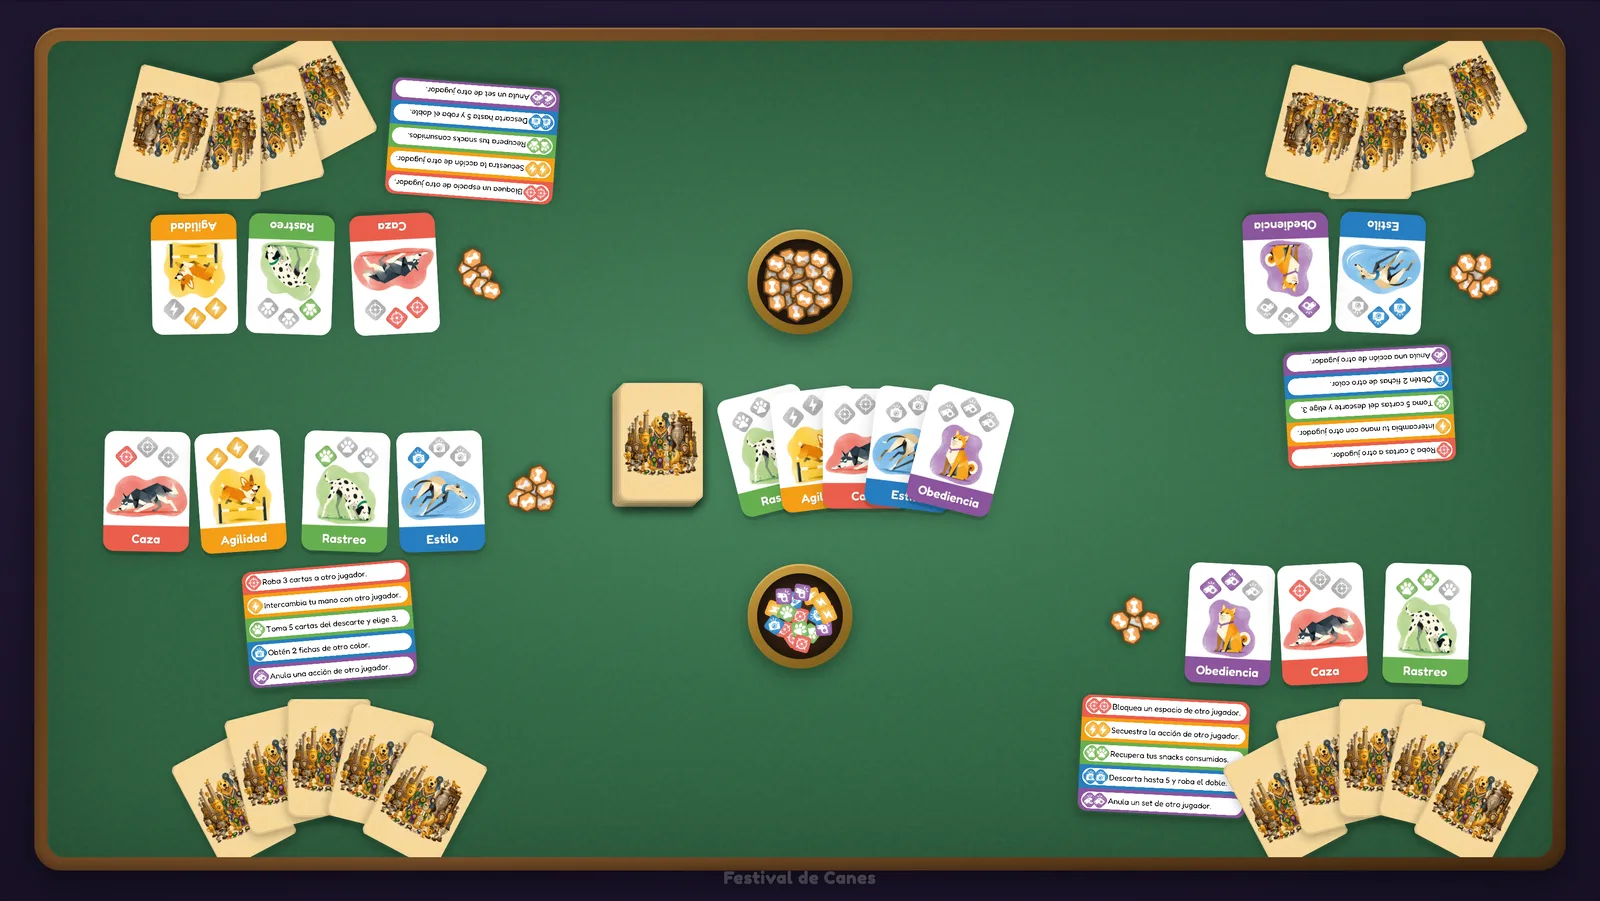
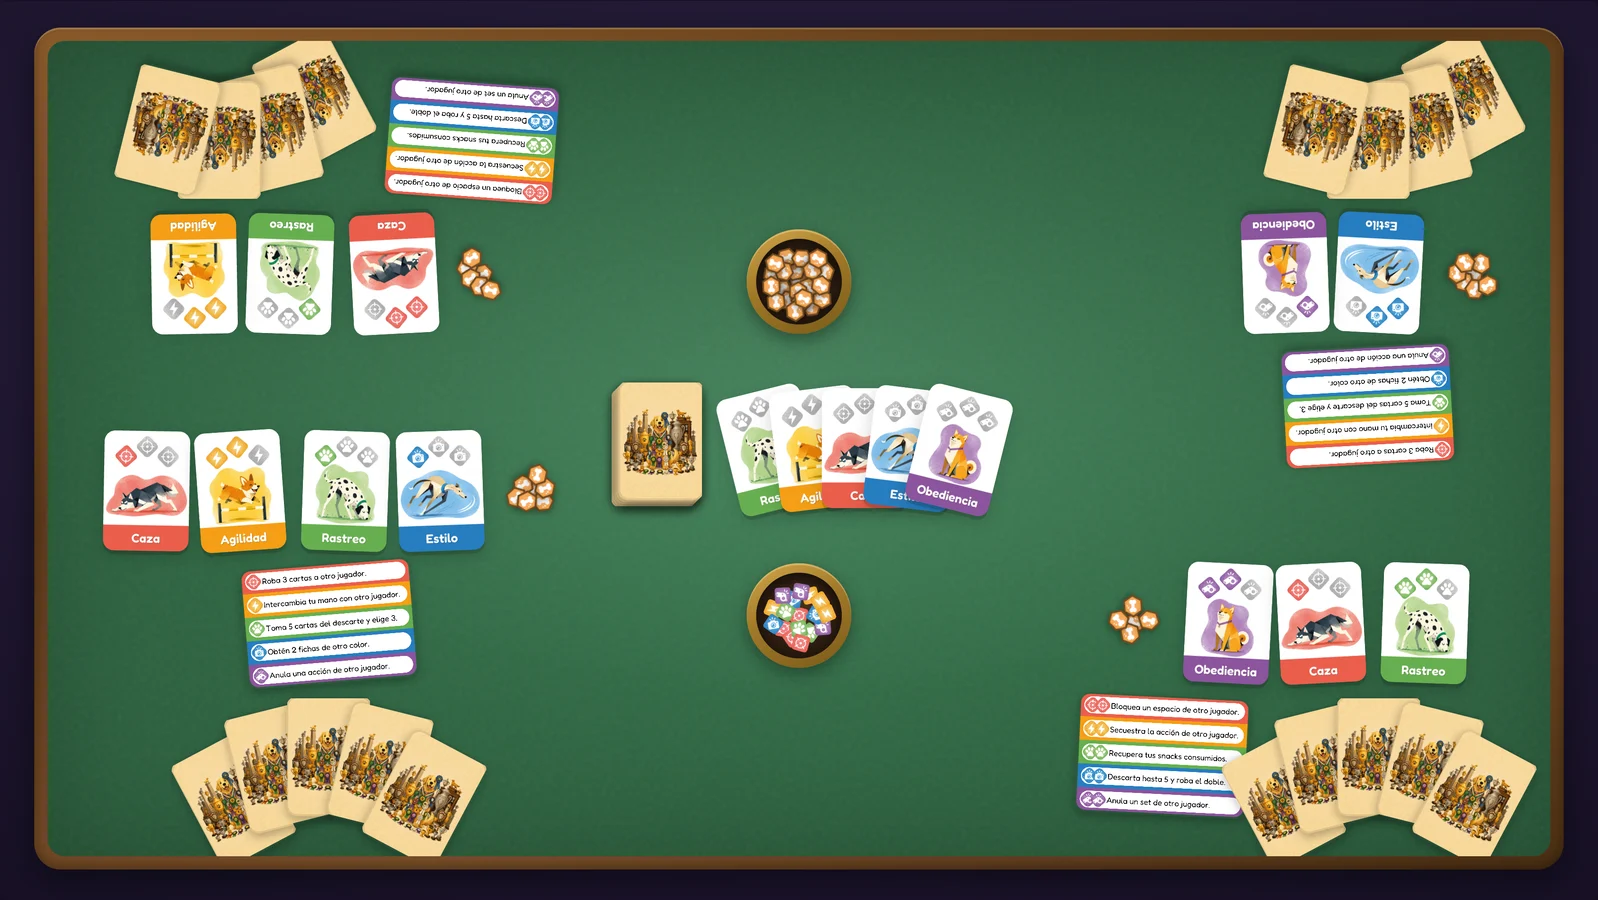
feat(ficha): montaje Canes, componentes sin leyendas y limpieza paletas
Reexporta canes-mesa-montaje sin marca inferior; quita captions visibles
en la sección componentes. Elimina debug de tema, fija fichaMode en juegos
restantes y ajusta estilos de héroe y shell global.

diff --git a/src/styles/ficha.css b/src/styles/ficha.css
@@ -122,11 +122,6 @@ body.ficha-page[data-on-primary="tinta"] {
 
 .ficha-hero-copy {
   padding: clamp(2rem, 4.5vw, 3.5rem) 0 1.5rem;
-  background: linear-gradient(
-    105deg,
-    color-mix(in srgb, var(--ficha-bg) 28%, var(--ficha-page-bg)) 0%,
-    var(--ficha-page-bg) 72%
-  );
 }
 
 .ficha-hero-copy-inner {
@@ -289,9 +284,14 @@ body.ficha-page[data-on-primary="tinta"] {
 
 @media (max-width: 979px) {
   .ficha-concept-bleed {
+    position: relative;
     width: min(var(--ficha-max), calc(100% - 2 * var(--ficha-gutter)));
     margin-inline: auto;
   }
+}
+
+.ficha-hero .ficha-concept-bleed {
+  position: relative;
 }
 
 .ficha-concept-media {
@@ -308,12 +308,20 @@ body.ficha-page[data-on-primary="tinta"] {
   display: block;
 }
 
-.ficha-concept figcaption {
-  padding: .55rem .75rem .65rem;
-  color: var(--ficha-muted);
-  font-size: .78rem;
+/* Leyenda sobre el arte (héroe): sin barra debajo de la imagen. */
+.ficha-hero .ficha-concept-bleed figcaption {
+  position: absolute;
+  inset: auto 0 0 0;
+  z-index: 1;
+  margin: 0;
+  padding: 2.25rem var(--ficha-gutter) .7rem 1rem;
+  border: none;
+  color: rgba(255, 255, 255, .92);
+  font-size: clamp(.88rem, 1.35vw, .98rem);
   font-style: italic;
-  border-top: 1px solid var(--ficha-line);
+  line-height: 1.35;
+  background: linear-gradient(180deg, transparent 0%, rgba(26, 40, 71, .55) 100%);
+  pointer-events: none;
 }
 
 /* —— Historia / inspiración (franja, distinta de las secciones) —— */
@@ -572,9 +580,6 @@ body.ficha-page[data-on-primary="tinta"] {
 }
 
 .ficha-comp-stage-wrap {
-  display: flex;
-  flex-direction: column;
-  gap: .55rem;
   min-width: 0;
 }
 
@@ -599,15 +604,6 @@ body.ficha-page[data-on-primary="tinta"] {
   object-fit: cover;
   object-position: center center;
   display: block;
-}
-
-.ficha-comp-stage-cap {
-  margin: 0;
-  min-height: 1.25em;
-  color: var(--ficha-award-title, var(--ficha-dim));
-  font-size: .82rem;
-  font-style: italic;
-  line-height: 1.35;
 }
 
 .ficha-comp-side {
@@ -914,11 +910,6 @@ body.ficha-page .site-header {
   border-bottom: 1px solid var(--ficha-line, color-mix(in srgb, var(--ficha-c-tinta) 12%, transparent));
 }
 
-body.ficha-page .site-header .shell,
-body.ficha-page .site-footer .shell {
-  width: min(1320px, calc(100% - 2 * clamp(1.25rem, 2.5vw, 2.75rem)));
-}
-
 body.ficha-page .brand b {
   color: var(--ficha-header-text, var(--ficha-title, var(--ficha-c-tinta)));
 }
@@ -1077,18 +1068,6 @@ body.ficha-page .site-footer a:hover {
     object-fit: contain;
     object-position: center center;
     display: block;
-  }
-
-  .ficha-concept-bleed figcaption {
-    position: absolute;
-    inset: auto 0 0 0;
-    z-index: 1;
-    margin: 0;
-    padding: 2.25rem var(--ficha-gutter) .7rem 1rem;
-    border: none;
-    color: var(--ficha-on-band-title);
-    background: var(--ficha-band-bg);
-    pointer-events: none;
   }
 }
 

diff --git a/src/styles/global.css b/src/styles/global.css
@@ -17,6 +17,9 @@
   --white: #fffdf6;
   --shadow: 0 14px 35px rgba(44,45,40,.14);
   --shell: 1200px;
+  /* Header/footer: misma caja que fichas (1320 + gutter fluido). */
+  --site-chrome-max: 1320px;
+  --site-chrome-gutter: clamp(1.25rem, 2.5vw, 2.75rem);
 }
 
 * { box-sizing: border-box; }
@@ -46,6 +49,11 @@ a { color: inherit; }
 img { display: block; max-width: 100%; }
 h1, h2, h3, p, figure { margin-top: 0; }
 .shell { width: min(var(--shell), calc(100% - 3rem)); margin-inline: auto; }
+
+.site-header .shell,
+.site-footer .shell {
+  width: min(var(--site-chrome-max), calc(100% - 2 * var(--site-chrome-gutter)));
+}
 
 .site-header {
   position: sticky;

diff --git a/src/lib/ficha-overlays.ts b/src/lib/ficha-overlays.ts
@@ -128,8 +128,8 @@ const overlays: Record<string, OverlayFn> = {
         { title: t.step2Title, body: t.step2Body },
         { title: t.step3Title, body: t.step3Body },
       ],
-      componentsPhoto: '/assets/canes-mesa-montaje.webp',
-      componentsPhotoAlt: t.galMesaAlt,
+      componentsPhoto: '/assets/canes-mesa-montaje.webp?v=2',
+      componentsPhotoAlt: '',
       components: [
         comp(locale, '100', 'Discipline Cards', 'Cartas de Disciplina', 'deck-cards', {
           image: '/assets/canes-comp-disciplinas.webp?v=4',

diff --git a/src/lib/ficha-colors.ts b/src/lib/ficha-colors.ts
@@ -26,7 +26,7 @@ export function mixColors(a: string, b: string, weight: number): string {
     .toString(16).padStart(2, '0')).join('');
 }
 
-/** La misma derivación se usa en el HTML estático y en el botón de debug. */
+/** Derivación de tokens semánticos a partir de palette + modo (build estático). */
 export function fichaColorVars(palette: string[], mode: FichaMode): Record<string, string> {
   const { base, primary, apoyo, tinta } = paletteRoles(palette);
   const colors = [base, tinta, primary, apoyo];

diff --git a/docs/PALETAS_FICHA.md b/docs/PALETAS_FICHA.md
@@ -30,11 +30,18 @@ fichaMode: light
 
 `fichaMode` acepta `light` o `dark`, también desde el CMS. El fallback es `light`. `fichaBandMode()` solo lee esta decisión: la luminancia, el sistema operativo y cambiar la paleta no cambian el modo. El HTML estático incluye `data-band` y el tema completo, por lo que funciona sin JavaScript.
 
-Los 19 juegos parten explícitamente en **claro**, como en la última vista aprobada. Esta es la configuración inicial; los modos definitivos por juego se decidirán usando el debug. No se ha inferido ni aprobado un reparto automático de modos.
+**Modo estándar (oct 2026):** cada juego tiene `fichaMode: light | dark` en CMS. Reparto aprobado:
+
+| Modo | Juegos |
+|---|---|
+| **dark** | Almagesto, Chauvet, Evoluciona, Hubris, Palomas, Pavoneo, Piramisú, Reloj, Tartán |
+| **light** | Amateurasu, Canes, Carcinogenial, Chispas, Ermitaños, Gato, Letrados, Mantas, Nínive, Nudis |
+
+Para cambiar el reparto: editar solo `fichaMode` en el `.md` o en Decap (sin tocar `palette`).
 
 ## Superficies y lectura
 
-`src/lib/ficha-colors.ts` calcula los mismos tokens al compilar y al alternar el debug. `src/styles/ficha.css` aplica esos tokens y conserva las reglas estructurales.
+`src/lib/ficha-colors.ts` calcula los tokens al compilar; `src/styles/ficha.css` los aplica.
 
 | Elemento | Claro | Oscuro |
 |---|---|---|
@@ -45,7 +52,7 @@ Los 19 juegos parten explícitamente en **claro**, como en la última vista apro
 | Cajitas | 16% principal + 84% base | 14% base + 86% tinta |
 | Paneles de recursos | 10% principal + 90% base | 12% base + 88% tinta |
 | CTA | Principal | Contrapunto |
-| Etiqueta de estado | 82% contrapunto + 18% base | La misma mezcla |
+| Etiqueta de estado | Colores fijos del portafolio (`state-badge.ts`) | Igual |
 
 Estas son las mezclas de partida. Si una superficie no permite un contraste de 4,6:1 con ningún slot, se reduce su mezcla hacia base o tinta. El encabezado se distingue del cuerpo en ambos modos.
 
@@ -53,48 +60,28 @@ El texto se elige contra **su fondo real**, no contra un color distinto al usado
 
 No hay quinto color de origen. Las mezclas generan los tokens semánticos; no se guardan como nuevos colores en el CMS.
 
-## Debug para revisar decisiones
-
-- En `npm run dev` y previews de Netlify se activa automáticamente.
-- En un build normal se abre cualquier ficha con `?debug=paleta`, por ejemplo `/juegos/canes?debug=paleta`.
-- **Ver oscuro / Ver claro** alterna el tema completo. Los cuatro colores y las fuentes no cambian.
-- Las elecciones se recuerdan por keyword en el navegador y se comparten entre ES/EN. Sin almacenamiento disponible, el botón sigue funcionando.
-- La URL incluye `modo=light|dark`, para compartir la misma vista.
-- **Restablecer** elimina la elección local del juego y recupera su `fichaMode` del CMS.
-- **Copiar decisiones** copia los modos de los 19 juegos. Donde no hay elección local, usa el modo del CMS. Si el portapapeles no está disponible, muestra texto seleccionable.
-- Fuera del debug se respeta siempre el CMS, aunque haya elecciones locales guardadas.
-
-El debug es una vista local y **no modifica el CMS**. Para cerrar decisiones, pasar el texto copiado al agente y pedir que actualice únicamente `fichaMode` en cada archivo, sin tocar `palette`, y recompilar/desplegar. Ejemplo del formato:
-
-```yaml
-# fichaMode: decisiones locales de debug
-almagesto: dark
-amateurasu: light
-canes: light
-```
-
 ## Paletas aprobadas
 
-| Juego | Base | Principal | Contrapunto | Tinta | Modo inicial |
+| Juego | Base | Principal | Contrapunto | Tinta | `fichaMode` |
 |---|---|---|---|---|---|
-| Almagesto | `#E7E4FA` | `#5146B5` | `#816019` | `#18142F` | `light` |
-| Amateurasu | `#FBE6D5` | `#B82F32` | `#256B6B` | `#462022` | `light` |
-| El Gran Festival de Canes | `#EEF1DB` | `#476B32` | `#9D5735` | `#253521` | `light` |
-| Carcinogenial | `#F1F3DF` | `#922D67` | `#5F7214` | `#2B1728` | `light` |
-| Chauvet | `#E9E2D3` | `#504941` | `#A04827` | `#29241F` | `light` |
-| Chispas | `#FFF0BE` | `#BF3F1C` | `#276C84` | `#3B241A` | `light` |
-| Ermitaños | `#DDF3EB` | `#006F73` | `#9F305A` | `#143D35` | `light` |
-| Evoluciona | `#F3EAD1` | `#806012` | `#755698` | `#393017` | `light` |
-| Gato Regalón | `#F8E8E5` | `#9A3D54` | `#4D6E44` | `#422934` | `light` |
-| Hubris | `#EDE2FC` | `#7E36B7` | `#859524` | `#24102F` | `light` |
-| Letrados | `#E8F0FF` | `#2351A8` | `#915409` | `#182844` | `light` |
-| Mantas a Raya | `#DCEFFA` | `#136C99` | `#AB3B25` | `#10283B` | `light` |
-| Nínive | `#F3E3CA` | `#1A6A77` | `#9C4D23` | `#15343A` | `light` |
-| Manda Nudis | `#F8E5F3` | `#AD287E` | `#17646F` | `#39213C` | `light` |
-| Palomas | `#ECE9E3` | `#4E5B77` | `#735913` | `#252B3A` | `light` |
-| Pavoneo | `#EEF0D8` | `#596C18` | `#933E7B` | `#293316` | `light` |
-| Piramisú | `#F7E0C3` | `#6F381B` | `#28577A` | `#382218` | `light` |
-| Hasta un Reloj Roto... | `#EEDFF0` | `#6D416C` | `#885316` | `#302039` | `light` |
-| Tartán | `#E2EAE4` | `#235C4B` | `#A62B43` | `#1A332C` | `light` |
+| Almagesto | `#E7E4FA` | `#5146B5` | `#816019` | `#18142F` | **dark** |
+| Amateurasu | `#FBE6D5` | `#B82F32` | `#256B6B` | `#462022` | light |
+| El Gran Festival de Canes | `#EEF1DB` | `#476B32` | `#9D5735` | `#253521` | light |
+| Carcinogenial | `#F1F3DF` | `#922D67` | `#5F7214` | `#2B1728` | light |
+| Chauvet | `#E9E2D3` | `#504941` | `#A04827` | `#29241F` | **dark** |
+| Chispas | `#FFF0BE` | `#BF3F1C` | `#276C84` | `#3B241A` | light |
+| Ermitaños | `#DDF3EB` | `#006F73` | `#9F305A` | `#143D35` | light |
+| Evoluciona | `#F3EAD1` | `#806012` | `#755698` | `#393017` | **dark** |
+| Gato Regalón | `#F8E8E5` | `#9A3D54` | `#4D6E44` | `#422934` | light |
+| Hubris | `#EDE2FC` | `#7E36B7` | `#859524` | `#24102F` | **dark** |
+| Letrados | `#E8F0FF` | `#2351A8` | `#915409` | `#182844` | light |
+| Mantas a Raya | `#DCEFFA` | `#136C99` | `#AB3B25` | `#10283B` | light |
+| Nínive | `#F3E3CA` | `#1A6A77` | `#9C4D23` | `#15343A` | light |
+| Manda Nudis | `#F8E5F3` | `#AD287E` | `#17646F` | `#39213C` | light |
+| Palomas | `#ECE9E3` | `#4E5B77` | `#735913` | `#252B3A` | **dark** |
+| Pavoneo | `#EEF0D8` | `#596C18` | `#933E7B` | `#293316` | **dark** |
+| Piramisú | `#F7E0C3` | `#6F381B` | `#28577A` | `#382218` | **dark** |
+| Hasta un Reloj Roto... | `#EEDFF0` | `#6D416C` | `#885316` | `#302039` | **dark** |
+| Tartán | `#E2EAE4` | `#235C4B` | `#A62B43` | `#1A332C` | **dark** |
 
 Ver [PALETAS_WORKFLOW.md](./PALETAS_WORKFLOW.md) para futuras revisiones.

diff --git a/docs/FICHAS.md b/docs/FICHAS.md
@@ -25,7 +25,7 @@ Si este archivo choca con un diseño puntual acordado en CMS, gana el **contenid
 ### Skin (cuatro colores + modo explícito)
 
 - `publicado` vs `proto` cambia **contenido** (comprar vs probar por IG, bloque “en qué estamos”), **no** una paleta alternativa.
-- **Color en ficha:** solo los cuatro `palette` → `--ficha-c-{base,primary,apoyo,tinta}` en `<body>`. Los tokens derivados se calculan en `ficha-colors.ts` y se aplican en `ficha.css` según **`data-band="light|dark"`**, elegido explícitamente mediante `fichaMode`. El debug permite comparar los dos modos sin modificar los colores; ver [PALETAS_FICHA.md](./PALETAS_FICHA.md).
+- **Color en ficha:** solo los cuatro `palette` → `--ficha-c-{base,primary,apoyo,tinta}` en `<body>`. Los tokens derivados se calculan en `ficha-colors.ts` y se aplican en `ficha.css` según **`data-band="light|dark"`**, elegido explícitamente mediante `fichaMode` en CMS; ver [PALETAS_FICHA.md](./PALETAS_FICHA.md).
 - `bg` / `titleColor` / `taglineColor` del CMS **no** alimentan la ficha (portafolio / legacy).
 - Cuatro colores: **familia + apoyo contrapunto** — cómo pedirlos: [PALETAS_WORKFLOW.md](./PALETAS_WORKFLOW.md).
 - Página:

diff --git a/docs/PALETAS_WORKFLOW.md b/docs/PALETAS_WORKFLOW.md
@@ -12,7 +12,7 @@ Las paletas **no salen de teoría sola** (60-15-15, contrapunto, etc.). Salen de
 3. **Ordenar en CMS** sin cambiar el matiz:
    - `palette[0]` base · `[1]` primary · `[2]` apoyo (contrapunto) · `[3]` tinta
    - La ficha **no** usa `bg` ni `titleColor` para pintar — solo estos cuatro slots + derivación automática ([PALETAS_FICHA.md](./PALETAS_FICHA.md)).
-4. **Validar en portafolio** (4 swatches) + **una ficha** en dev. Ajustar un solo slot, no rehacer todo. Comparar ambos modos con `?debug=paleta` y guardar la elección explícita en `fichaMode`.
+4. **Validar en portafolio** (4 swatches) + **una ficha** en dev. Ajustar un solo slot o `fichaMode`, no rehacer todo.
 
 ## Lo que no funciona (y por qué falló el agente)
 

diff --git a/src/content/games/pavoneo.md b/src/content/games/pavoneo.md
@@ -36,7 +36,7 @@ palette:
   - "#596C18"
   - "#933E7B"
   - "#293316"
-fichaMode: light
+fichaMode: dark
 titleFont: '"Playfair Display", serif'
 taglineFont: '"Cormorant Garamond", serif'
 bodyFont: 'Nunito, sans-serif'

diff --git a/src/content/games/evoluciona.md b/src/content/games/evoluciona.md
@@ -37,7 +37,7 @@ palette:
   - "#806012"
   - "#755698"
   - "#393017"
-fichaMode: light
+fichaMode: dark
 titleFont: '"Shantell Sans", sans-serif'
 taglineFont: '"Patrick Hand", cursive'
 bodyFont: 'Nunito, sans-serif'

diff --git a/src/content/games/tartan.md b/src/content/games/tartan.md
@@ -25,7 +25,7 @@ palette:
   - "#235C4B"
   - "#A62B43"
   - "#1A332C"
-fichaMode: light
+fichaMode: dark
 titleFont: '"IM Fell English", serif'
 taglineFont: '"Josefin Sans", sans-serif'
 bodyFont: 'Nunito, sans-serif'

diff --git a/src/content/games/piramisu.md b/src/content/games/piramisu.md
@@ -37,7 +37,7 @@ palette:
   - "#6F381B"
   - "#28577A"
   - "#382218"
-fichaMode: light
+fichaMode: dark
 titleFont: '"Yeseva One", serif'
 taglineFont: '"Cormorant Garamond", serif'
 bodyFont: 'Nunito, sans-serif'

diff --git a/src/content/games/almagesto.md b/src/content/games/almagesto.md
@@ -23,7 +23,7 @@ palette:
   - "#5146B5"
   - "#816019"
   - "#18142F"
-fichaMode: light
+fichaMode: dark
 titleFont: 'Spectral, serif'
 taglineFont: '"Cormorant Garamond", serif'
 bodyFont: 'Nunito, sans-serif'
